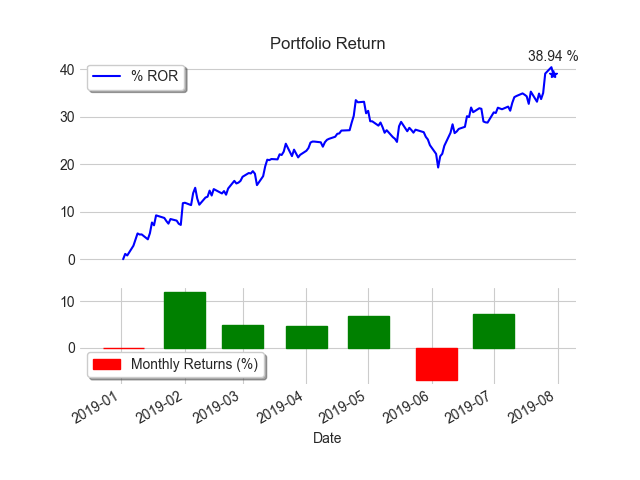
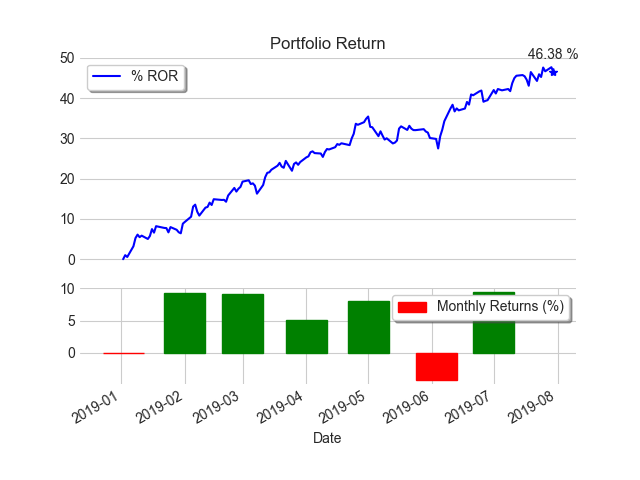
changes

diff --git a/Market.py b/Market.py
@@ -45,71 +45,6 @@ def allocatecapital(portfolio, weightsdf, dfindex):
 
     return portfolio
 
-
-
-def makeplotportfolio(valuestockarray, pricedatadftesting, InitialCapital):
-    returns_series = pd.Series(valuestockarray)
-    list_returns = returns_series.pct_change().tolist()
-    list_returns[0] = 0
-    list_returns = [100 * x for x in list_returns]
-    valuestockarray = [i / InitialCapital * 100 - 100 for i in valuestockarray]
-
-    style.use('seaborn-whitegrid')
-    fig, ax = plt.subplots()
-    gridspec.GridSpec(3, 1)
-
-    ax = plt.subplot2grid((3, 1), (0, 0), colspan=1, rowspan=2)
-    ax.xaxis.set_visible(False)
-    ax.spines['top'].set_visible(False)
-    ax.spines['right'].set_visible(False)
-    ax.spines['bottom'].set_visible(False)
-    ax.spines['left'].set_visible(False)
-    ax.plot(pricedatadftesting.index.tolist(), valuestockarray, 'b-', label = '% ROR', )
-    ax.fmt_xdata = mdates.DateFormatter('%Y-%m')
-    ax.set_title('Portfolio Return')
-    #ax1.set_ylabel('% ROR', color='b')
-    legend = ax.legend(frameon=True, loc='upper left', shadow=True, fontsize='medium')
-
-    ax.plot(pricedatadftesting.index.tolist()[-1], valuestockarray[-1], 'b*', label = '% ROR', )
-    label = "{:.2f} %".format(valuestockarray[-1])
-    plt.annotate(label, (pricedatadftesting.index.tolist()[-1], valuestockarray[-1]), textcoords="offset points", xytext=(0, 10), ha='center')
-
-
-
-    ax = plt.subplot2grid((3, 1), (2, 0), colspan=1, rowspan=1)
-    barlist = ax.bar(pricedatadftesting.index.tolist(), list_returns, label='Monthly Returns (%)', width=20)
-    for index_bar in range(len(barlist)):
-        if list_returns[index_bar] <= 0:
-            barlist[index_bar].set_color('r')
-        else:
-            barlist[index_bar].set_color('g')
-
-    #for x, y in zip(pricedatadftesting.index.tolist(), list_returns):
-    #    label = "{:.2f}".format(y)
-    #    if y <= 0:
-    #        plt.annotate(label, (x, y), textcoords="offset points", xytext=(0, 2), ha='center', fontsize=8)
-    #    else:
-    #        plt.annotate(label, (x, y), textcoords="offset points", xytext=(0, 2), ha='center', fontsize=8)
-
-    ax.xaxis.set_visible(True)
-    ax.spines['top'].set_visible(False)
-    ax.spines['right'].set_visible(False)
-    ax.spines['bottom'].set_visible(False)
-    ax.spines['left'].set_visible(False)
-    legend = ax.legend(frameon=True, loc='best', shadow=True, fontsize='medium')
-
-    plt.xticks(rotation=45)
-    plt.xlabel('Date')
-
-    #plt.ylim((0,100))
-    plt.box(on=None)
-    plt.gcf().autofmt_xdate()
-    plt.savefig('PNGPortfolio.png')
-    plt.legend()
-    plt.show()
-
-    return 0
-
 def makeplot(valuestockarray, pricedatadftesting, InitialCapital, portfoliovalue_month, weightsdf):
     returns_series = pd.Series(portfoliovalue_month)
     list_returns = returns_series.pct_change().tolist()

diff --git a/MainMPT.py b/MainMPT.py
@@ -21,7 +21,7 @@ inputdate_init = '2019-01-01'
 inputdate_fin = 'now'
 
 #tickersymbolist = ['BTC', 'LTC', 'ETH']
-tickersymbolist = ['AAPL', 'MSFT', 'FB', 'NFLX', 'AMZN', 'GOOG']
+tickersymbolist = ['AAPL', 'MSFT', 'FB', 'AMZN', 'V']
 
 # Initial Capital
 initialcapital = 10000
